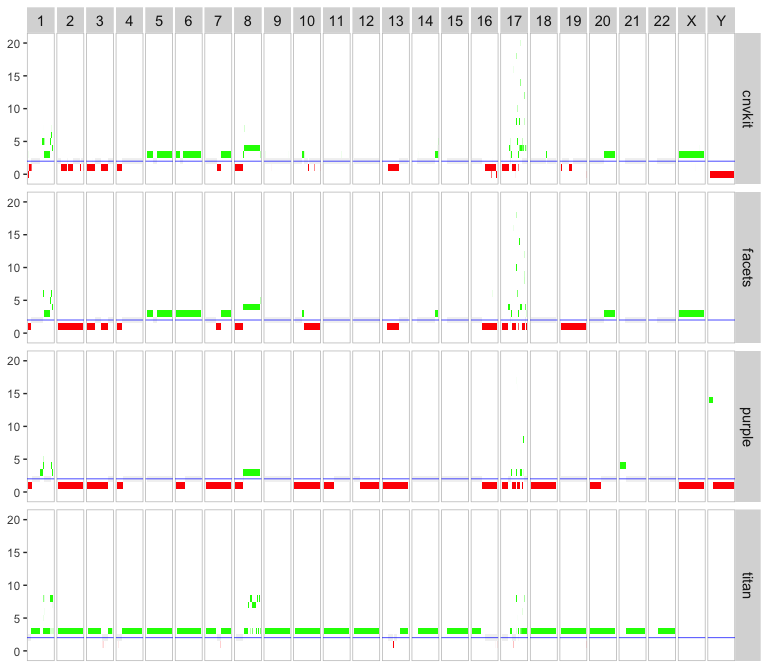
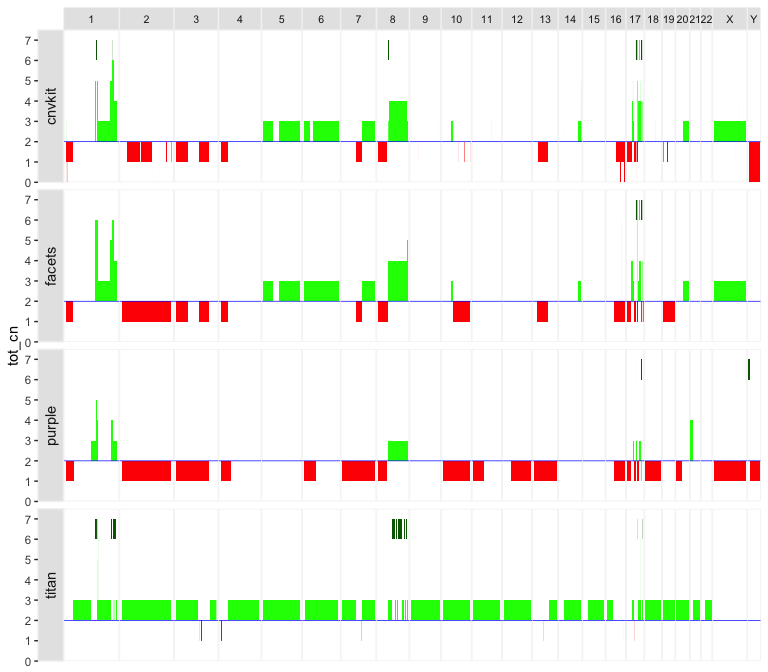
updated piano plot
- removed CN2 rectangles; now simply show histograms up to CN value
- extreme CN values (> 6) are now shown at CN7 in dark green
- changed colour of strip background
- switched caller labels from right to left
- ylim from 0 to 7.5

Changed region(s): [[0.0, 0.0, 1.0, 1.0]]

diff --git a/README.md b/README.md
@@ -1,9 +1,10 @@
 
 # Rocking R at UMCCR
 
-<!-- [![Travis build status](https://travis-ci.org/umccr/rock.svg?branch=master)](https://travis-ci.org/umccr/rock) -->
-
-<!-- [![Coverage status](https://codecov.io/gh/umccr/rock/branch/master/graph/badge.svg)](https://codecov.io/github/umccr/rock?branch=master) -->
+[![Travis build
+status](https://travis-ci.org/umccr/rock.svg?branch=master)](https://travis-ci.org/umccr/rock)
+[![Coverage
+status](https://codecov.io/gh/umccr/rock/branch/master/graph/badge.svg)](https://codecov.io/github/umccr/rock?branch=master)
 
 `rock` is an R package that (hopefully) helps with the day to day
 bioinformatics life at UMCCR (UniMelb Centre for Cancer Research).
